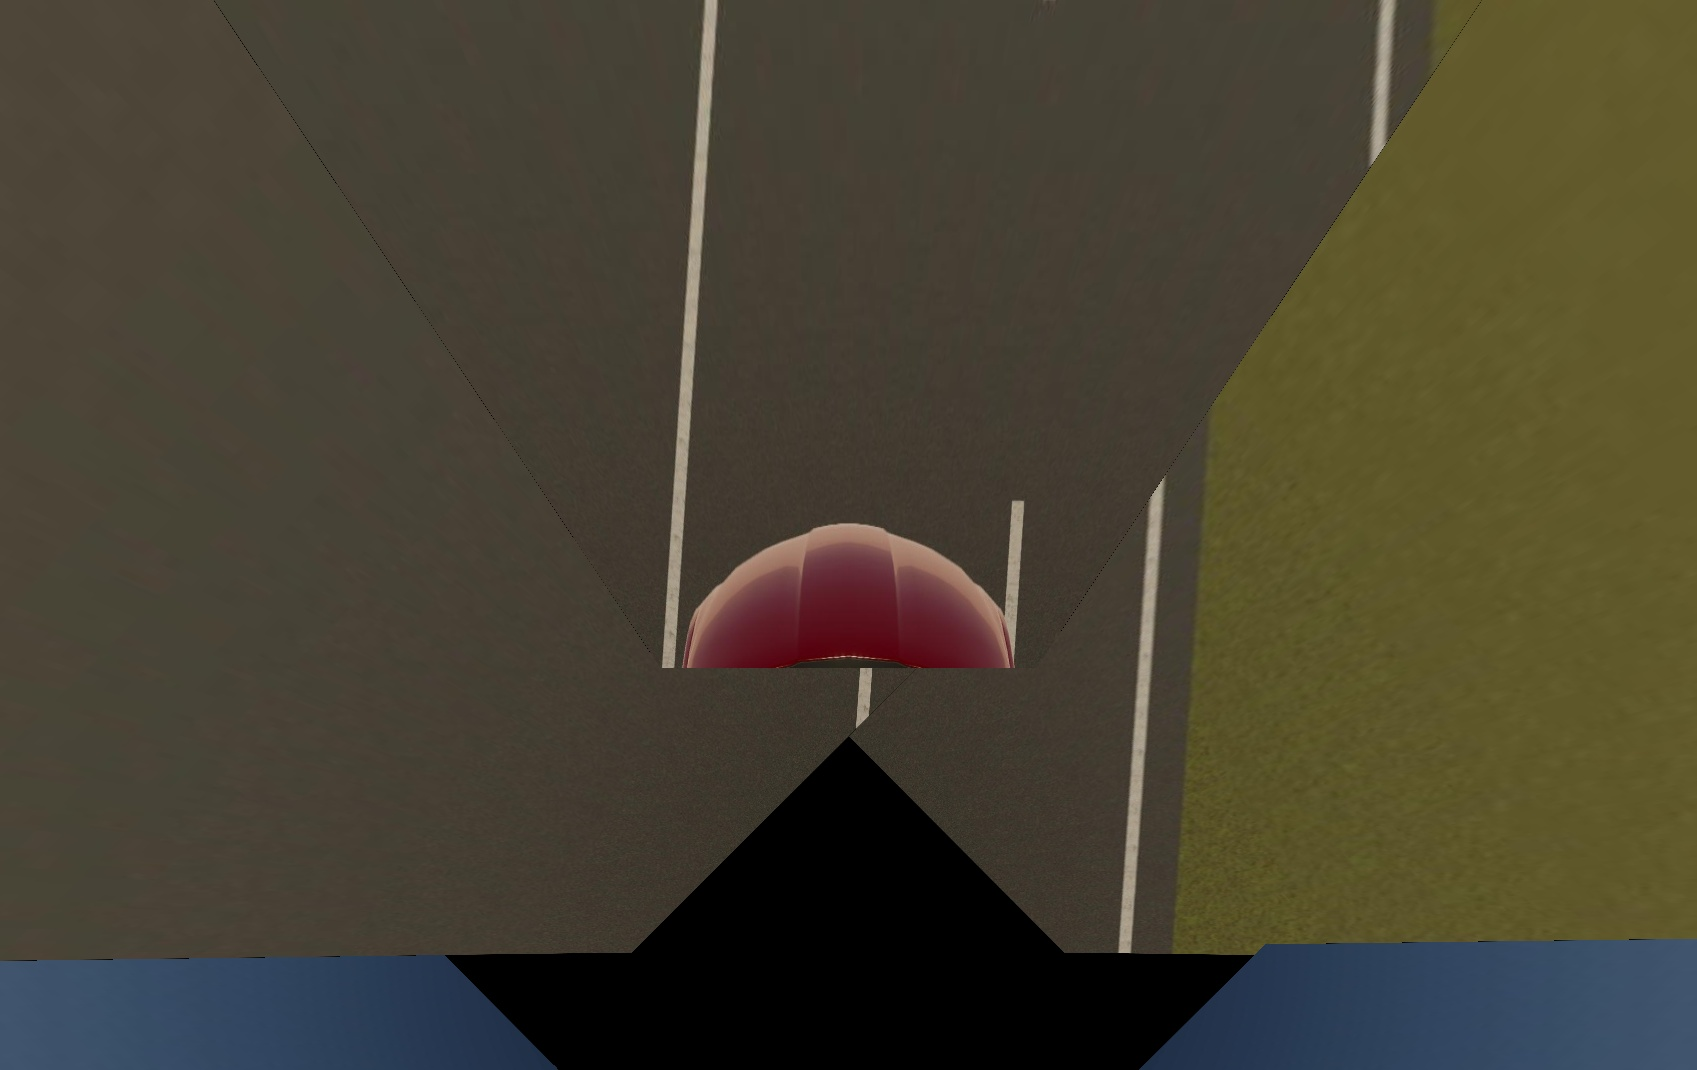
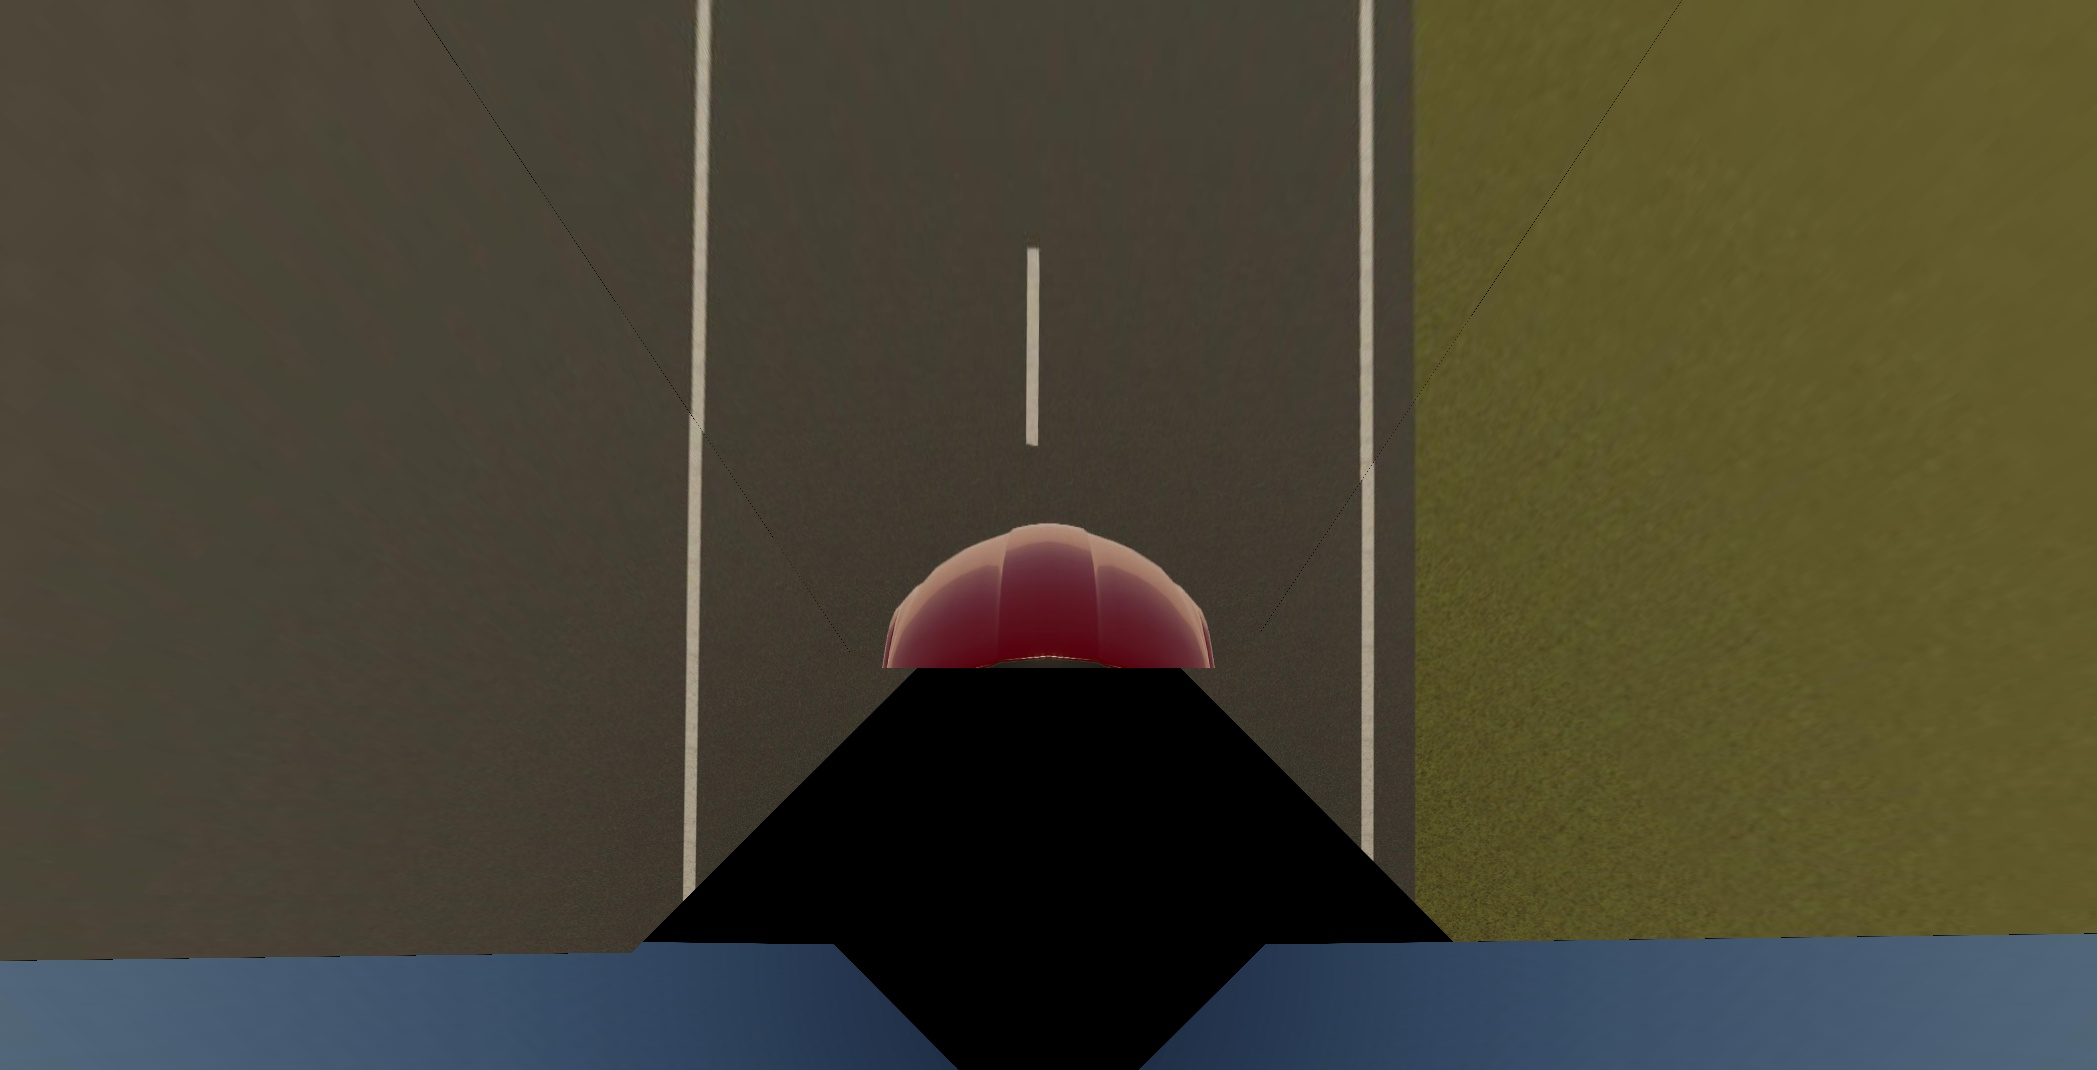
cleaned up code, removed odom from main script, made camera pos and rot dynamically changable. Will add masking to image projection next

Changed region(s): [[0.2499, 0.0, 1.0, 1.0], [0.4685, 0.2467, 0.4997, 0.4009]]

diff --git a/scripts/Spark3Cam.py b/scripts/Spark3Cam.py
@@ -14,20 +14,13 @@ import time
 import math as m
 from copy import deepcopy
 
-# global tf_buffer
 tf_buffer = tf2_ros.Buffer()
-# global tf_listener
 tf_listener = None
 bridge = cv_bridge.CvBridge()
 
 main_camera_data = None
 left_camera_data = None
 right_camera_data = None
-
-odom_current = None
-main_camera_odom = None
-left_camera_odom = None
-right_camera_odom = None
 
 main_camera_transform = None
 left_camera_transform = None
@@ -92,28 +85,16 @@ def tf_to_pos_rot(transform):
   
     
 def left_camera_callback(data):
-    t = time.time()
     global left_camera_data
-    global right_time
-    global right_camera_odom
-    global odom_current
     left_camera_data = deepcopy(data)
-    right_camera_odom = deepcopy(odom_current)
-
-    left_time = time.time()-t
 
 def right_camera_callback(data):
-    t = time.time()
     global right_camera_data
-    global right_time
-    global right_camera_odom
-    global odom_current
     right_camera_data = deepcopy(data)
-    right_camera_odom = deepcopy(odom_current)
-    
-    right_time = time.time()-t
+
 
 def main_camera_callback(data):
+    t = time.time()
     global main_camera_data 
     global left_camera_data
     global right_camera_data
@@ -122,11 +103,24 @@ def main_camera_callback(data):
     global main_camera_odom
     global left_camera_odom
     global right_camera_odom
+    source = "map"
+    try:
+        main_camera_transform = tf_buffer.lookup_transform(source, "main_camera", rospy.Time(0), rospy.Duration(1.0))
+        left_camera_transform = tf_buffer.lookup_transform(source, "left_camera", rospy.Time(0), rospy.Duration(1.0))
+        right_camera_transform = tf_buffer.lookup_transform(source, "right_camera", rospy.Time(0), rospy.Duration(1.0))
+    except:
+        rospy.logerr("couldn't get tf")
 
-    global main_camera_transform
-    global left_camera_transform
-    global right_camera_transform
-    t = time.time()
+    pos,rot = tf_to_pos_rot(main_camera_transform)
+    panorama.update_camera_pos_rot("main_camera", pos, rot)
+
+    pos,rot = tf_to_pos_rot(left_camera_transform)
+    panorama.update_camera_pos_rot("left_camera", pos, rot)
+
+    pos,rot = tf_to_pos_rot(right_camera_transform)
+    panorama.update_camera_pos_rot("right_camera", pos, rot)
+
+    
 
     right_camera_img = bridge.compressed_imgmsg_to_cv2(right_camera_data)
     panorama.update_camera_img("right_camera", right_camera_img)
@@ -164,7 +158,7 @@ def main_camera_callback(data):
 
     out.write(panorama.get_output_img().astype(np.uint8))
     main_time = time.time()-t
-    print(1/(main_time+left_time+right_time))
+    print(1/(main_time+left_time+right_time), 1/main_time)
 
 def node():
     global main_camera_transform
@@ -194,59 +188,14 @@ def node():
             main_fov = 2*m.atan(1250/2/f)
 
             pos,rot = tf_to_pos_rot(main_camera_transform)
-            # rot = np.array([[1.0000000,  0.0000000,  0.0000000],
-            #                 [0.0000000,  0.0000000, -1.0000000],
-            #                 [0.0000000,  1.0000000,  0.0000000]])
-            print("main")
             panorama.add_camera("main_camera", pos, rot, 1250, 1080, main_fov)
 
             pos,rot = tf_to_pos_rot(left_camera_transform)
-            # rot = np.array([[ 0.7071068,  0.0000000,  0.7071068],
-            #                 [ 0.7071068,  0.0000000, -0.7071068],
-            #                 [ 0.0000000,  1.0000000,  0.0000000]])
-            print("left")
             panorama.add_camera("left_camera", pos, rot, 1920, 1080, l_r_fov)
 
             pos,rot = tf_to_pos_rot(right_camera_transform)
-            # rot = np.array([[ 0.7071068,  0.0000000, -0.7071068],
-            #                 [-0.7071068,  0.0000000, -0.7071068],
-            #                 [ 0.0000000,  1.0000000,  0.0000000]])
-            print("right")
             panorama.add_camera("right_camera", pos, rot, 1920, 1080, l_r_fov)
 
-            # pos_frame_align = np.array([[ 0.0000000,  1.0000000,  0.0000000],
-            #                             [-1.0000000,  0.0000000,  0.0000000],
-            #                             [ 0.0000000,  0.0000000,  1.0000000]])
-            
-            # rot_frame_align = np.array([[ 0.0000000,  0.0000000, -1.0000000],
-            #                             [-1.0000000,  0.0000000,  0.0000000],
-            #                             [ 0.0000000,  1.0000000,  0.0000000]])
-
-            # translation = main_camera_transform.transform.translation
-            # pos = np.array([[translation.x], [translation.y], [translation.z]])
-            # rot = np.array([[1.0000000,  0.0000000,  0.0000000],
-            #                 [0.0000000,  0.0000000, -1.0000000],
-            #                 [0.0000000,  1.0000000,  0.0000000]])
-            # pos = np.matmul(frame_align, pos)
-            # panorama.add_camera("main_camera", pos, rot, 1250, 1080, main_fov)
-
-            # translation = left_camera_transform.transform.translation
-            # pos = np.array([[translation.x], [-translation.y], [translation.z]])
-            # rot = np.array([[ 0.7071068,  0.0000000,  0.7071068],
-            #                 [ 0.7071068,  0.0000000, -0.7071068],
-            #                 [ 0.0000000,  1.0000000,  0.0000000]])
-            # pos = np.matmul(frame_align, pos)
-
-            # panorama.add_camera("left_camera", pos, rot, 1920, 1080, l_r_fov)
-
-            # translation = right_camera_transform.transform.translation
-            # pos = np.array([[translation.x], [-translation.y], [translation.z]])
-            # rot = np.array([[ 0.7071068,  0.0000000, -0.7071068],
-            #                 [-0.7071068,  0.0000000, -0.7071068],
-            #                 [ 0.0000000,  1.0000000,  0.0000000]])
-            # pos = np.matmul(frame_align, pos)
-            # panorama.add_camera("right_camera", pos, rot, 1920, 1080, l_r_fov)
-    
             get_tf = False
         except Exception as e:
             rospy.logerr(e)

diff --git a/scripts/Panorama.py b/scripts/Panorama.py
@@ -92,6 +92,10 @@ class Panorama():
         """
         del(self.cameras[camera_name])
 
+    def update_camera_pos_rot(self, camera_name, camera_pos, camera_rot):
+        self.cameras[camera_name]["pos"] = camera_pos
+        self.cameras[camera_name]["rot"] = camera_rot
+    
     def update_camera_img(self, camera_name, camera_img):
         camera_pos = self.cameras[camera_name]["pos"]
         camera_rot = self.cameras[camera_name]["rot"]
